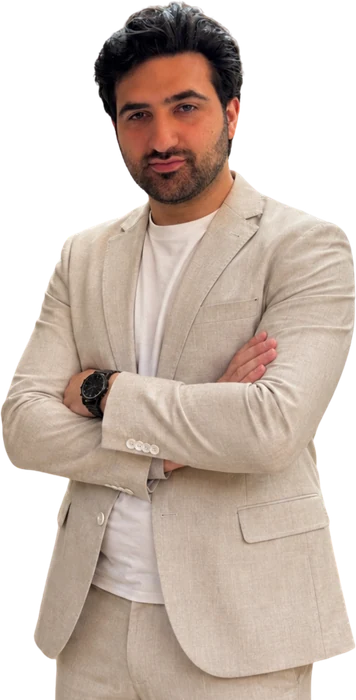
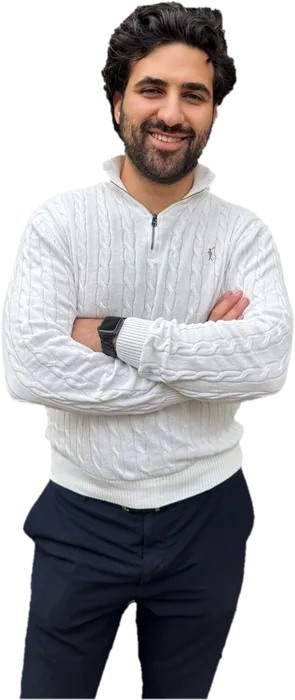
Startseite: neues Hero-Portrait — freigestellt, sonst klebt ein Kasten im Hero
Ayhams neue Aufnahme ersetzt den bisherigen Freisteller. Das Rohbild hatte
einen Gebaeudehintergrund, der Hero-Grund ist aber `bg-surface-strong`
(0 0% 94 %), also fast weiss — ein Foto mit Hintergrund saesse dort als
sichtbares Rechteck statt als Figur auf der Flaeche.

Freigestellt mit rembg/u2net_human_seg **und Alpha-Matting**: ohne das bleibt
ein dunkler Saum vom Gebaeude an Schulter und Arm stehen, `post_process_mask`
ebenso. Danach die Kies-Franzen an der Hosenkante weggeschnitten (Opening auf
der Alphamaske, Kante 1 px hinter den Saum gezogen).

Neue Masse 295x700 statt 356x700, 29 statt 40 KB. Die `width`-Attribute in
Home.tsx ziehen mit — sie reservieren den Platz gegen Layoutverschiebung, mit
dem alten Wert waere genau der Fehler zurueck, der am 20.08. behoben wurde.

Dieselbe Datei zeigen auch /funnel und die beiden Sales Letter.

Geprueft: lint, 244 Tests, Build, Screenshots bei 1440/1024/768/390/360 px.

diff --git a/src/app/page.tsx b/src/app/page.tsx
@@ -25,9 +25,14 @@ export const metadata = buildMetadata({
 });
 
 /**
- * Pfad des Hero-Portraits: die freigestellte Aufnahme von Ayham, seit dem
- * 12.08.2026 im Repo (`src/assets/portrait_Ayham.svg` als Quelle, daraus
- * getrimmt und auf 700 px Höhe gerechnet — 40 KB statt 1 MB).
+ * Pfad des Hero-Portraits: die freigestellte Aufnahme von Ayham (getrimmt und
+ * auf 700 px Höhe gerechnet — 295 x 700, 29 KB).
+ *
+ * ⚠ Freigestellt heißt hier: **transparenter Hintergrund, keine Kante.** Der
+ * Hero-Grund ist `bg-surface-strong` (0 0% 94 %), fast weiß — ein Foto mit
+ * Hintergrund säße dort als sichtbares Rechteck. Wer die Datei austauscht,
+ * tauscht sie gegen einen Freisteller, sonst klebt ein Kasten im Hero.
+ * Dieselbe Datei zeigen auch `/funnel` und die beiden Sales Letter.
  *
  * Die Prüfung läuft **hier**, in der Server Component, und damit beim Build:
  * liegt die Datei, wird sie ausgeliefert; liegt sie nicht, fällt die Startseite

diff --git a/src/views/Home.tsx b/src/views/Home.tsx
@@ -111,7 +111,7 @@ export default function Home({
             src={portrait}
             alt=""
             aria-hidden="true"
-            width={356}
+            width={295}
             height={700}
             className="pointer-events-none absolute bottom-0 right-0 hidden h-[360px] w-auto select-none object-contain object-bottom dt:block dt:h-[400px]"
           />
@@ -192,7 +192,7 @@ export default function Home({
               <img
                 src={portrait}
                 alt=""
-                width={356}
+                width={295}
                 height={700}
                 className="h-[320px] w-auto select-none object-contain object-bottom"
               />
